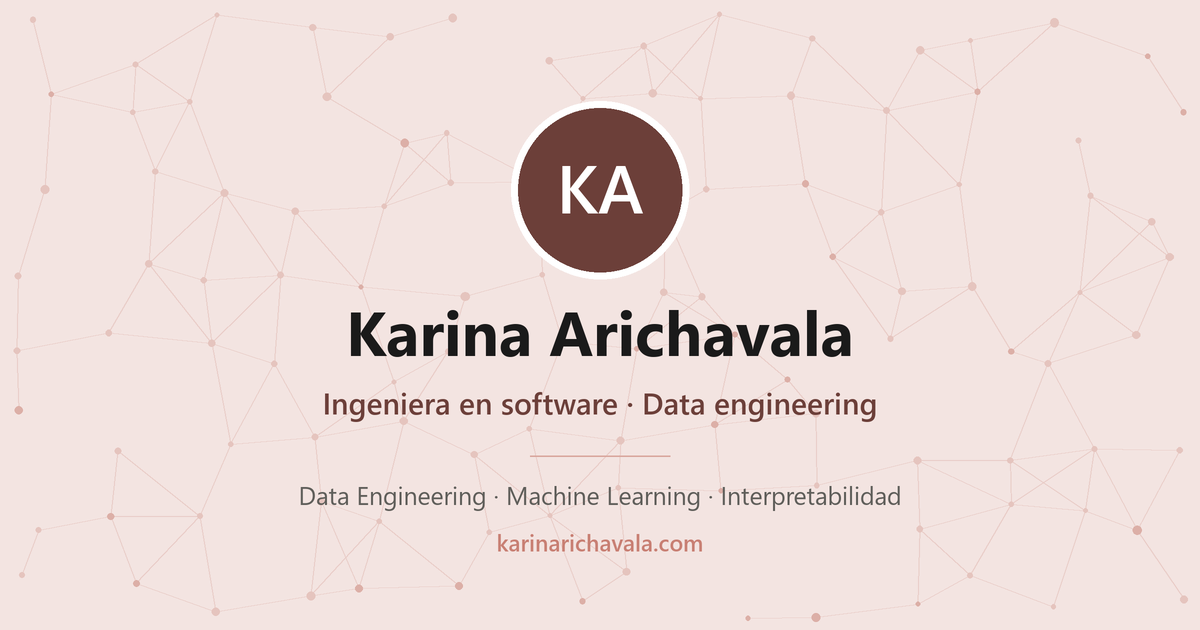
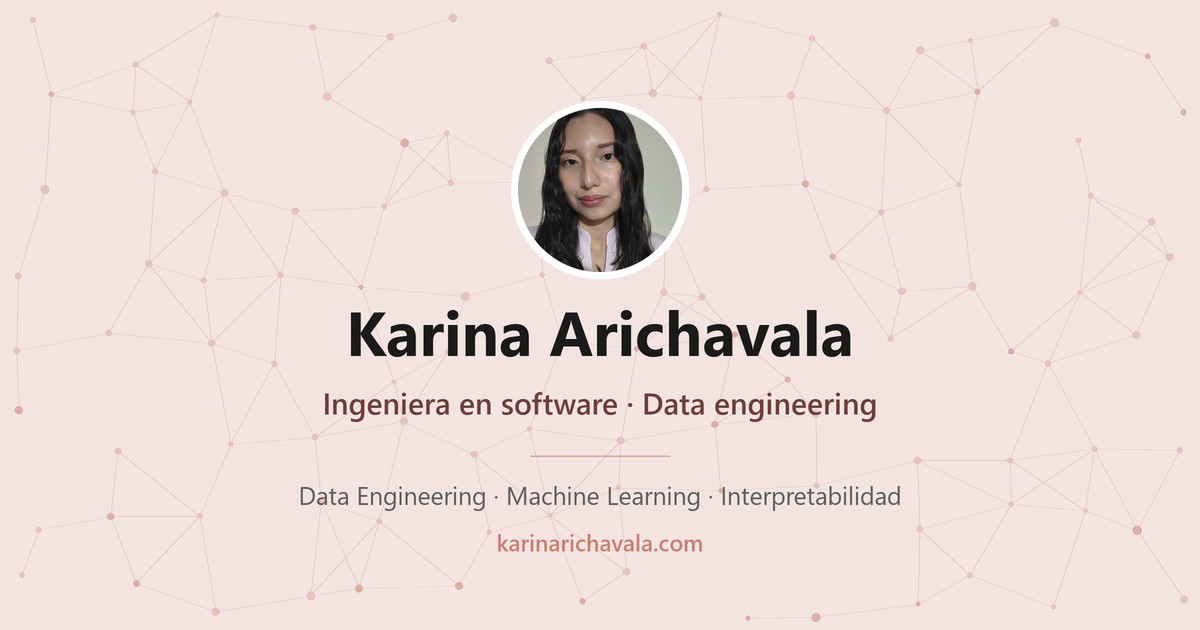
add: phote and refactor

Changed region(s): [[0.4317, 0.1508, 0.5858, 0.4524]]

diff --git a/styles.css b/styles.css
@@ -10,7 +10,6 @@
   /* Paleta */
   --color-pink-pale: #F3E4E1;      /* fondo del header */
   --color-terracotta-dark: #6C3F39;/* acento principal: barra, botones, iconos */
-  --color-terracotta: #C87F73;     /* variante de acento (reservada de la paleta) */
   --color-pink-mid: #D9A79E;       /* bordes y líneas */
   --color-white: #FFFFFF;
   --color-gray-light: #FAFAFA;     /* fondo de tarjetas */
@@ -19,6 +18,11 @@
   --color-text-secondary: #5F5E5A; /* texto secundario */
   --color-text-tertiary: #888780;  /* metadata */
   --color-border: #E8E4E1;         /* separadores sutiles */
+
+  /* Colores translúcidos: derivan de los anteriores, pero necesitan canal
+     alfa, así que se declaran aquí en vez de repetir el rgba() suelto. */
+  --color-shadow: rgba(108, 63, 57, 0.07);      /* terracotta oscuro */
+  --color-border-light: rgba(255, 255, 255, 0.15); /* blanco sobre la barra */
 
   /* Tipografía */
   --font-sans: "Inter", "Segoe UI", system-ui, -apple-system, "Helvetica Neue", Arial, sans-serif;
@@ -60,7 +64,7 @@ body {
   -webkit-font-smoothing: antialiased;
 }
 
-h1, h2, h3, p, dl, dd, figure {
+h1, h2, h3, p, dl, dd {
   margin: 0;
 }
 
@@ -109,20 +113,25 @@ svg[viewBox] {
 }
 
 /* ---------- 3. Utilidades ---------- */
-/* Primer elemento enfocable: permite saltar la navegación con el teclado.
-   Se recorta a 1x1px en lugar de sacarlo con un top negativo, así no depende
-   de que ningún ancestro esté posicionado ni de que se cargue el resto del CSS. */
-.skip-link {
+/* Patrón compartido: el elemento sigue existiendo para los lectores de
+   pantalla, pero se recorta a 1x1px. Se recorta en lugar de sacarlo con un
+   top negativo para no depender de que ningún ancestro esté posicionado. */
+.skip-link,
+.u-visually-hidden {
   position: absolute;
-  top: 0;
-  left: 0;
-  z-index: 200;
   width: 1px;
   height: 1px;
   overflow: hidden;
   clip: rect(0 0 0 0);
   clip-path: inset(50%);
   white-space: nowrap;
+}
+
+/* Primer elemento enfocable: permite saltar la navegación con el teclado */
+.skip-link {
+  top: 0;
+  left: 0;
+  z-index: 200;
 }
 
 /* Solo aparece cuando recibe el foco del teclado */
@@ -143,15 +152,8 @@ svg[viewBox] {
 
 /* Texto disponible para lectores de pantalla pero invisible en pantalla */
 .u-visually-hidden {
-  position: absolute;
-  width: 1px;
-  height: 1px;
   padding: 0;
   margin: -1px;
-  overflow: hidden;
-  clip: rect(0 0 0 0);
-  clip-path: inset(50%);
-  white-space: nowrap;
   border: 0;
 }
 
@@ -259,18 +261,18 @@ svg[viewBox] {
 }
 
 .header__avatar {
-  display: flex;
-  align-items: center;
-  justify-content: center;
-  width: 104px;
-  height: 104px;
+  display: block;
+  width: 128px;
+  height: 128px;
+  /* La foto se exporta en 3:4 completo; el recorte circular lo decide aquí
+     el CSS. object-position controla qué franja vertical se ve: bajarlo
+     muestra más hombros, subirlo acerca el encuadre al rostro. */
+  object-fit: cover;
+  object-position: center 15%;
   border: 4px solid var(--color-white);
   border-radius: 50%;
+  /* Se ve mientras la foto carga */
   background-color: var(--color-terracotta-dark);
-  color: var(--color-white);
-  font-size: 1.75rem;
-  font-weight: 600;
-  letter-spacing: 0.02em;
   /* Superpone el avatar entre el banner y el fondo blanco */
   transform: translateY(50%);
 }
@@ -281,8 +283,9 @@ svg[viewBox] {
   align-items: center;
   max-width: var(--content-width);
   margin: 0 auto;
-  /* El padding superior deja espacio a la mitad del avatar que sobresale */
-  padding: 72px 24px 40px;
+  /* El padding superior deja espacio a la mitad del avatar que sobresale
+     (128 / 2 = 64px) más la separación con el nombre */
+  padding: 84px 24px 40px;
   text-align: center;
 }
 
@@ -326,10 +329,6 @@ svg[viewBox] {
   color: var(--color-text);
 }
 
-.header__fact-value {
-  margin: 0;
-}
-
 /* ---------- 7. Iconos de contacto ---------- */
 .contact {
   display: flex;
@@ -364,9 +363,10 @@ svg[viewBox] {
 }
 
 /* ---------- 8. Secciones ---------- */
+/* El desfase de los anclajes lo aplica scroll-padding-top en html, así todos
+   los destinos (incluido el header) quedan a la misma altura */
 .section {
   border-top: 1px solid var(--color-border);
-  scroll-margin-top: var(--topbar-height);
 }
 
 .section__inner {
@@ -411,7 +411,7 @@ svg[viewBox] {
 .card:hover,
 .card--open {
   border-color: var(--color-pink-mid);
-  box-shadow: 0 2px 12px rgba(108, 63, 57, 0.07);
+  box-shadow: 0 2px 12px var(--color-shadow);
 }
 
 .card__header {
@@ -618,13 +618,15 @@ svg[viewBox] {
    ========================================================= */
 
 /* --- Tablet --- */
+/* Dentro de cada media query las reglas siguen el mismo orden que arriba:
+   topbar → nav → header → secciones → tarjetas → skills. */
 @media (max-width: 900px) {
-  .skills {
-    grid-template-columns: repeat(3, 1fr);
-  }
-
   .header__banner {
     height: 170px;
+  }
+
+  .skills {
+    grid-template-columns: repeat(3, 1fr);
   }
 }
 
@@ -632,6 +634,12 @@ svg[viewBox] {
 @media (max-width: 720px) {
   :root {
     --topbar-height: 56px;
+  }
+
+  /* El menú desplegado se ancla a la barra */
+  .topbar__inner {
+    position: relative;
+    flex-wrap: wrap;
   }
 
   .topbar__burger {
@@ -646,7 +654,7 @@ svg[viewBox] {
     left: 0;
     width: 100%;
     background-color: var(--color-terracotta-dark);
-    border-top: 1px solid rgba(255, 255, 255, 0.15);
+    border-top: 1px solid var(--color-border-light);
     overflow: hidden;
     max-height: 0;
     visibility: hidden;
@@ -658,11 +666,6 @@ svg[viewBox] {
     max-height: 260px;
     visibility: visible;
     transition: max-height var(--transition-medium), visibility 0s;
-  }
-
-  .topbar__inner {
-    position: relative;
-    flex-wrap: wrap;
   }
 
   .nav__list {
@@ -686,13 +689,13 @@ svg[viewBox] {
   }
 
   .header__avatar {
-    width: 88px;
-    height: 88px;
-    font-size: 1.5rem;
+    width: 108px;
+    height: 108px;
   }
 
   .header__content {
-    padding: 60px 20px 36px;
+    /* 108 / 2 = 54px del avatar + separación */
+    padding: 70px 20px 36px;
   }
 
   .header__name {

diff --git a/script.js b/script.js
@@ -3,8 +3,8 @@
    Interacciones: menú hamburguesa, tarjetas expandibles y
    scroll spy. JavaScript vanilla, sin dependencias.
 
-   Cada bloque se inicializa por separado para que un fallo
-   en uno no deje los demás sin funcionar.
+   Cada bloque es independiente y comprueba que sus elementos
+   existan antes de enlazar eventos.
    ========================================================= */
 
 (function () {
@@ -68,11 +68,11 @@
         card.classList.toggle('card--open', willOpen);
         header.setAttribute('aria-expanded', String(willOpen));
 
-        if (willOpen) {
-          detail.style.maxHeight = detail.scrollHeight + 'px';
-        } else {
-          // Fija el alto actual antes de colapsar para que la transición arranque
-          detail.style.maxHeight = detail.scrollHeight + 'px';
+        // El alto real del contenido es el destino al abrir y el punto de
+        // partida al cerrar, así que se fija en ambos casos.
+        detail.style.maxHeight = detail.scrollHeight + 'px';
+
+        if (!willOpen) {
           requestAnimationFrame(function () {
             detail.style.maxHeight = '0px';
           });

diff --git a/index.html b/index.html
@@ -84,7 +84,8 @@
   <!-- ============ Header / presentación ============ -->
   <header class="header" id="sobre-mi">
     <div class="header__banner">
-      <span class="header__avatar" aria-hidden="true">KA</span>
+      <img class="header__avatar" src="resources/karina-arichavala.jpg"
+           alt="Karina Arichavala" width="128" height="128" fetchpriority="high">
     </div>
 
     <div class="header__content">
@@ -92,7 +93,7 @@
       <p class="header__role">Ingeniera de software · Data engineering · AI/ML</p>
       <p class="header__bio">
         Soy estudiante de último año de Ingeniería en Software y aplico mi formación al mundo de los datos:
-        desde construir la infraestructura que los sostiene hasta convertirlos en modelos que resuelven problemas reales. 
+        desde construir la infraestructura que los sostiene hasta convertirlos en modelos que resuelven problemas reales.
         Soy creativa a la hora de encontrar soluciones, pero también estructurada y atenta al detalle en cómo las ejecuto.
       </p>
 
